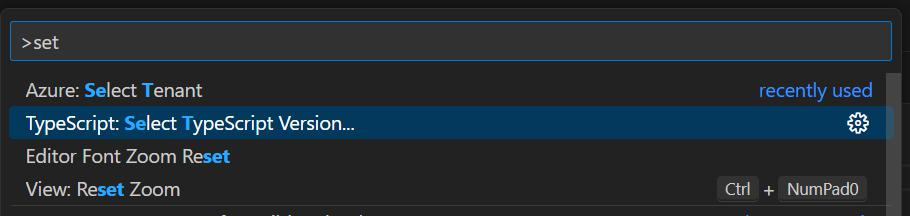
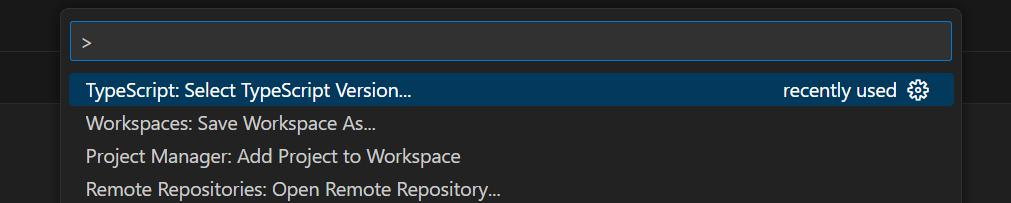
update readme

diff --git a/README.md b/README.md
@@ -1,9 +1,56 @@
-# IDE integration
-https://yarnpkg.com/getting-started/editor-sdks
+# Potřebné nástroje
+- git (https://git-scm.com)
+- docker (https://www.docker.com/get-started/)
+- editor/ide (preferovaně vscode, https://code.visualstudio.com)
+
+pro lokální vývoj (ne v dockeru) navíc:
+- nodejs v18+ (https://nodejs.org)
+- yarn (https://yarnpkg.com)
+	- je součástí nodejs, takže není třeba ručně instalovat
+- php 8.2 (https://www.php.net)
+	- Sql Server Driver
+		- windows: [link](https://learn.microsoft.com/en-us/sql/connect/php/download-drivers-php-sql-server?view=sql-server-ver16#download) (php_sqlsrv_82_nts_x64.dll)
+		- linux: https://pecl.php.net/package/sqlsrv
+
+> Databázová část projektu (packages/database) běží v dockeru vždy
+
+# Instalace a spuštění
+
+## V dockeru
+```powershell
+git clone "https://github.com/reporting-cz/reporting-boilerplate.git"
+cd "reporting-boilerplate"
+docker compose up
+```
+
+Po tom co docker spustí všechno potřebné by měla být aplikace dostupná na http://localhost:3000.
 
 
-# Lokální vývoj
-- node.js v18+ (https://nodejs.org)
+## Mimo docker
+```powershell
+corepack enable # https://yarnpkg.com/getting-started/install
+git clone "https://github.com/reporting-cz/reporting-boilerplate.git"
+cd "reporting-boilerplate"
+yarn install
+yarn dev
+# nebo zvlášť databázi a aplikaci
+# docker compose up bp-database
+# yarn dev:app
 ```
-corepack enable
-```
+
+
+# Nastaveí IDE
+
+Kvůli technologii Yarn PnP (https://yarnpkg.com/features/pnp), která ja tady použitá je potřeba určité specifické nastavení editoru, aby během psaní typescript kódu správně fungovala typová kontrola, intellisense apod.
+
+## vscode
+- přidat rozšíření *arcanis.vscode-zipfs* (https://marketplace.visualstudio.com/items?itemName=arcanis.vscode-zipfs)
+- otevřít libovolný .ts soubor v projektu
+	- F1 -> "Select TypeScript Version" -> "Use Workspace Version"
+
+![Select TypeScript Version](assets/vscode_ts_1.jpg)
+
+![Use Workspace Version](assets/vscode_ts_2.jpg)
+
+
+- více tady https://yarnpkg.com/getting-started/editor-sdks#vscode
